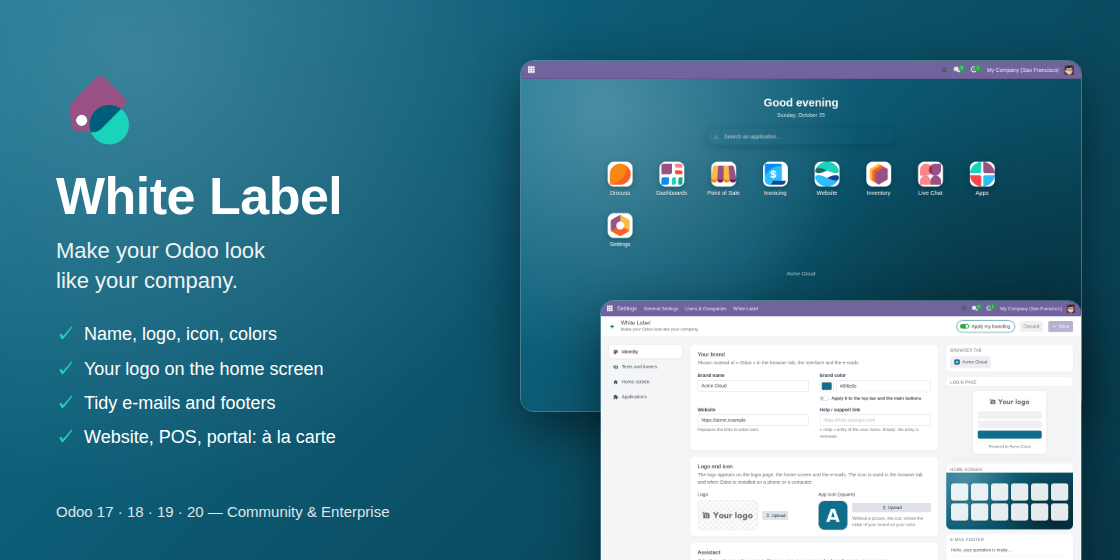
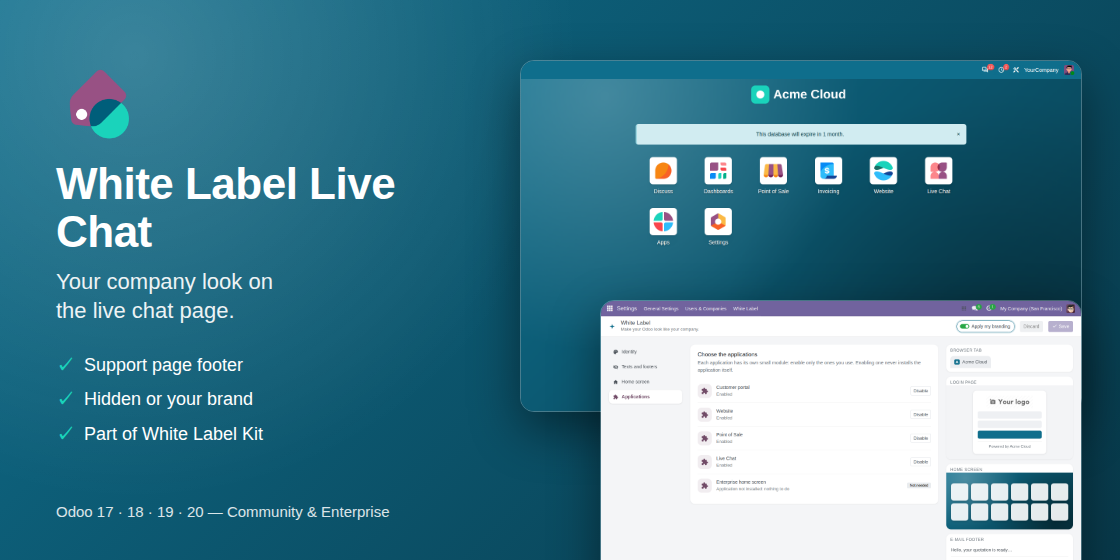
White Label Kit 1.0.2: cover images

diff --git a/white_label_kit_enterprise/__manifest__.py b/white_label_kit_enterprise/__manifest__.py
@@ -12,5 +12,6 @@
         'web.assets_backend': ['white_label_kit_enterprise/static/src/scss/*.scss'],
         'web.assets_frontend': ['white_label_kit_enterprise/static/src/scss/*.scss'],
     },
+    'images': ['static/description/banner.png'],
     'installable': True,
 }

diff --git a/white_label_kit_website/__manifest__.py b/white_label_kit_website/__manifest__.py
@@ -11,5 +11,6 @@
     'data': ['views/website_templates.xml'],
     'post_init_hook': 'post_init_hook',
     'uninstall_hook': 'uninstall_hook',
+    'images': ['static/description/banner.png'],
     'installable': True,
 }

diff --git a/white_label_kit_livechat/__manifest__.py b/white_label_kit_livechat/__manifest__.py
@@ -9,5 +9,6 @@
     'license': 'OPL-1',
     'depends': ['white_label_kit', 'im_livechat'],
     'data': ['views/livechat_templates.xml'],
+    'images': ['static/description/banner.png'],
     'installable': True,
 }

diff --git a/white_label_kit_portal/__manifest__.py b/white_label_kit_portal/__manifest__.py
@@ -9,5 +9,6 @@
     'license': 'OPL-1',
     'depends': ['white_label_kit', 'portal'],
     'data': ['views/portal_templates.xml'],
+    'images': ['static/description/banner.png'],
     'installable': True,
 }

diff --git a/white_label_kit_pos/__manifest__.py b/white_label_kit_pos/__manifest__.py
@@ -18,5 +18,6 @@
             'white_label_kit_pos/static/src/v17_19/*',
         ],
     },
+    'images': ['static/description/banner.png'],
     'installable': True,
 }
